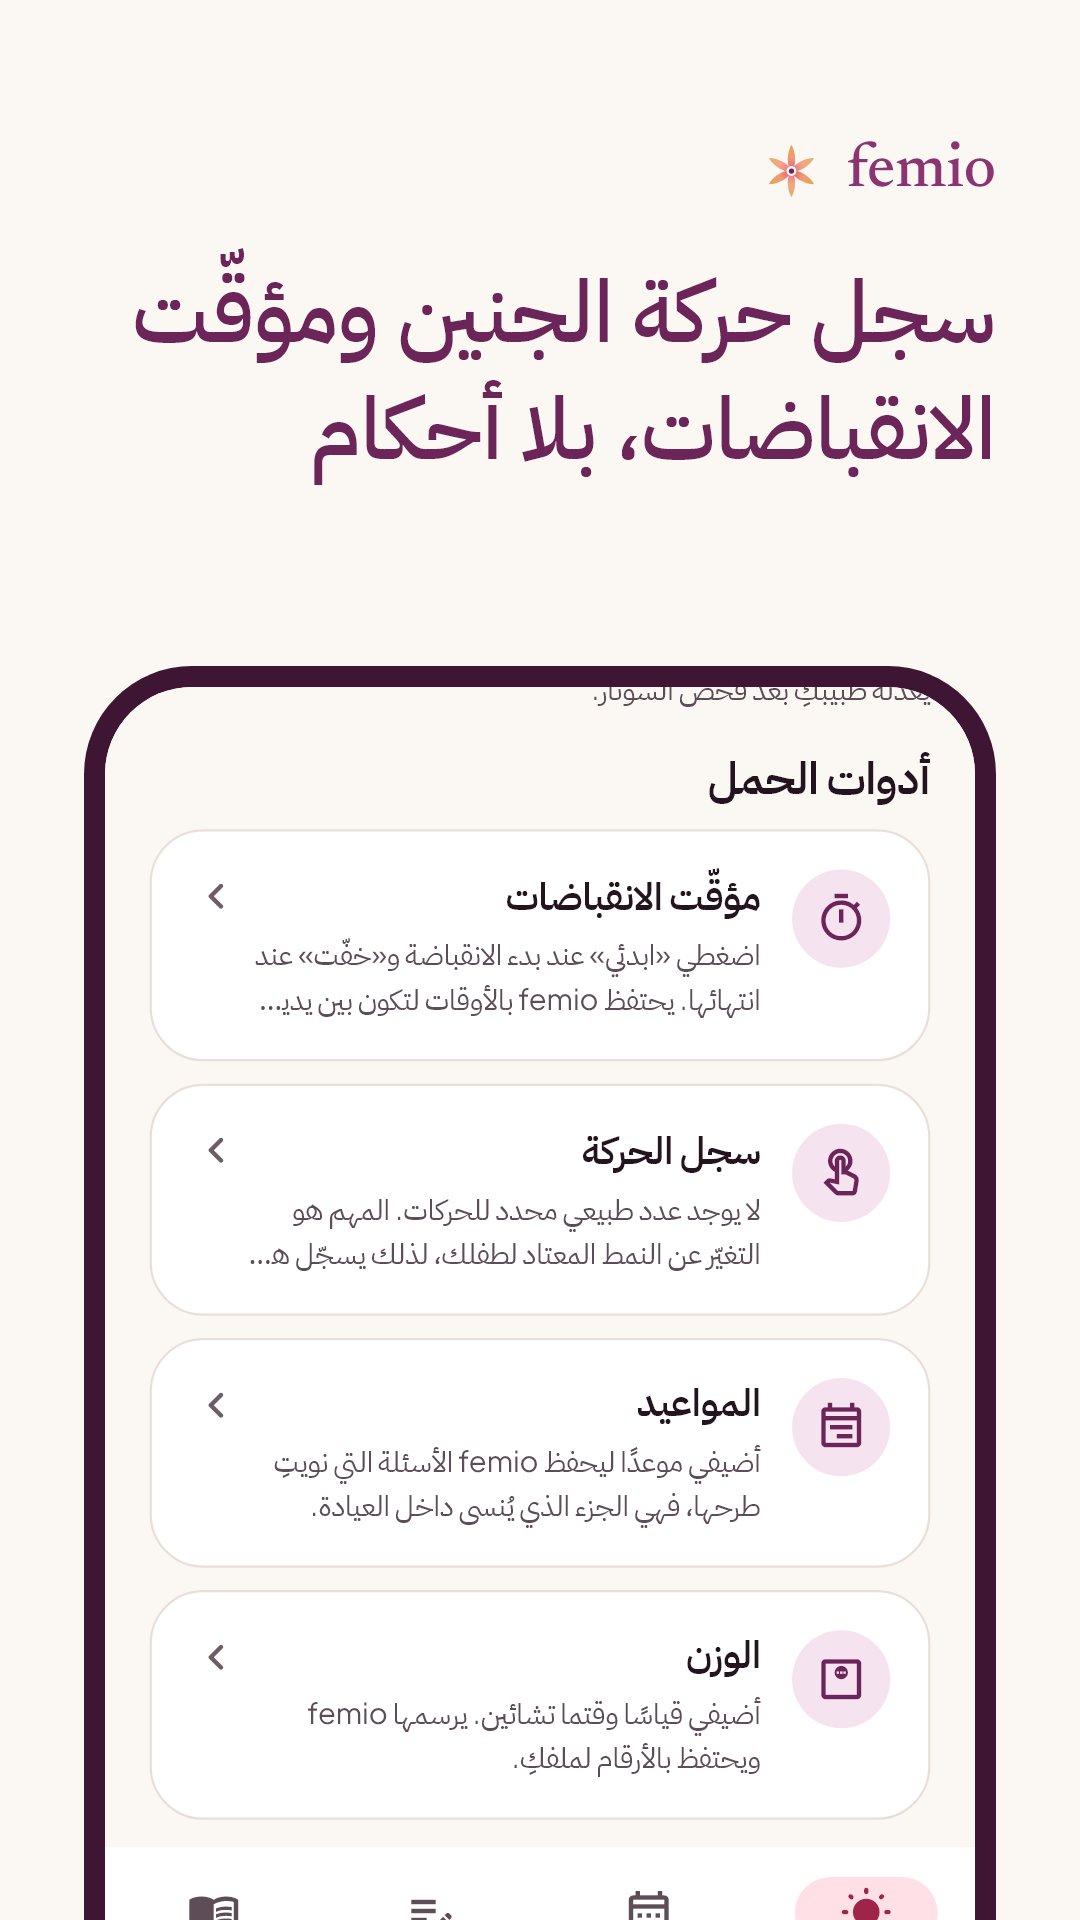
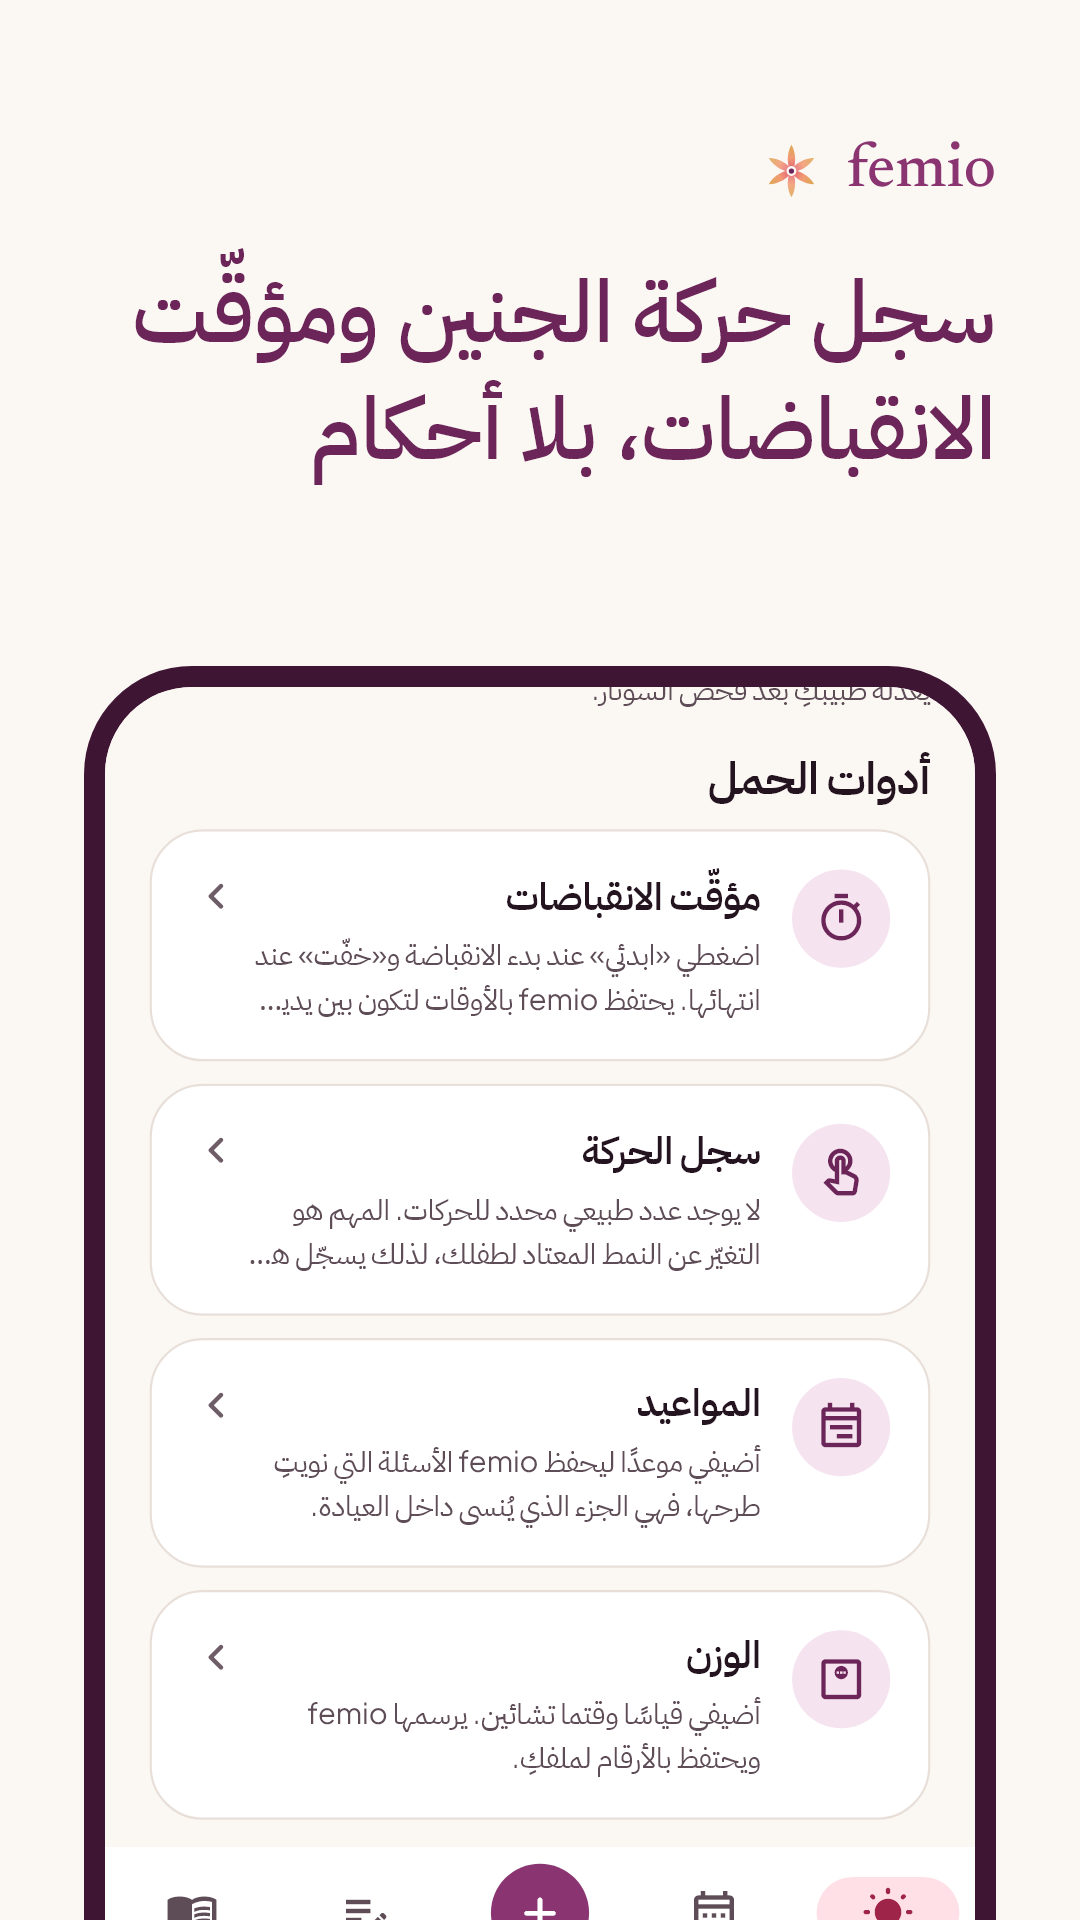
chore(store): R8.30 store screenshots with the new bar, flattened for Play
Re-rendered all 16 from store_screenshots_test.dart; flatten-graphics.py now
also writes the screenshots as RGB 1080x1920 (Play refuses alpha). The plain
test run still matches the flattened files.

diff --git a/scripts/store/flatten-graphics.py b/scripts/store/flatten-graphics.py
@@ -1,8 +1,9 @@
-"""Removes the alpha channel from the Play feature graphics (Play refuses alpha).
+"""Removes the alpha channel from the Play feature graphics and screenshots (Play refuses alpha).
 
 Why it exists: Flutter golden files are RGBA PNGs; Google Play wants a 24-bit PNG or JPEG
 for the feature graphic (docs/store/graphics-brief.md). Run after
-`flutter test --update-goldens test/store_feature_graphic_test.dart`.
+`flutter test --update-goldens test/store_feature_graphic_test.dart` or
+`test/store_screenshots_test.dart` (screenshots must be 1080x1920, R8.30).
 Usage: python scripts/store/flatten-graphics.py
 """
 import pathlib
@@ -10,16 +11,20 @@ import sys
 
 from PIL import Image
 
-GRAPHICS = pathlib.Path(__file__).resolve().parents[2] / "docs" / "store" / "graphics"
+STORE = pathlib.Path(__file__).resolve().parents[2] / "docs" / "store"
+GRAPHICS = STORE / "graphics"
+SCREENSHOTS = STORE / "screenshots"
 
 
 def main() -> int:
-    """Rewrites each feature-graphic PNG as RGB and checks its size; returns 1 on a bad size."""
+    """Rewrites each feature graphic and screenshot PNG as RGB and checks its size; returns 1 on a bad size."""
     bad = 0
-    for path in sorted(GRAPHICS.glob("feature-graphic-*.png")):
+    jobs = [(p, (1024, 500)) for p in sorted(GRAPHICS.glob("feature-graphic-*.png"))]
+    jobs += [(p, (1080, 1920)) for p in sorted(SCREENSHOTS.glob("*/*.png"))]
+    for path, size in jobs:
         img = Image.open(path).convert("RGB")
-        if img.size != (1024, 500):
-            print(f"{path.name}: {img.size}, expected (1024, 500)")
+        if img.size != size:
+            print(f"{path.name}: {img.size}, expected {size}")
             bad = 1
         img.save(path, optimize=True)
         print(f"{path.name}: RGB {img.size}")

diff --git a/docs/33_REBUILD_V3/PROGRESS.md b/docs/33_REBUILD_V3/PROGRESS.md
@@ -171,7 +171,7 @@ Accepted features from the persona-driven review (market researcher + business d
 - [x] R8.10c · The app calendar showed almost nothing for a new user (owner on his phone, 26 Nov 2026): the period length she gave was never used (a period drew as one day), this cycle's fertile window and ovulation vanished once past, and a stated cycle length drew only one future period and one window. Fixed with MR-57 in `day_marks.dart`, `fertility.dart` (`fertileWindowsFor`), `upcoming_periods.dart` and its web twin, fixture updated by hand (commit "fix(app): R8.10c …"; 26 Nov 2026)
 - [x] R8.29 · A centre "+" in the navigation bar (owner 26 Nov 2026): one sheet with Say it, Ask femio and visit questions on top (only when the assistant is on), one-tap flow and mood that save at once, and a row into the full Log for today. It replaces the floating Ask pill. Shots `testing-results/2026-11-26-r8-add-sheet/` (EN/AR, light/dark); behaviour in `test/r8_add_sheet_test.dart` (commit "feat(app): R8.29 …"; 26 Nov 2026)
 - [x] R8.10d · Today headlined a fertile window that had already ended (seen on the owner's data shape, 26 Nov 2026). It now shows the first window that has not ended (`currentOrNextFertileWindow`); the calendar keeps the past one (commit "feat(app): R8.29 …"; 26 Nov 2026)
-- [ ] R8.30 · Re-render the eight store screenshots with the new navigation bar ("+" in the middle) before the Play upload: single named tests in `store_screenshots_test.dart`, then flatten
+- [x] R8.30 · Re-render the eight store screenshots with the new navigation bar ("+" in the middle) before the Play upload: single named tests in `store_screenshots_test.dart`, then flatten. Done 2026-11-26: all 16 re-rendered (6 changed: Today, Hijri, Tools; the full-cycle calendar and the "+" bar show), `scripts/store/flatten-graphics.py` now also writes the screenshots as RGB 1080x1920; the plain test run still matches. Evidence: `docs/store/screenshots/{en,ar}/` (synthetic fixture).
 
 ## R9 · Competitor APK teardown (2026-11-24) — `research/APK_TEARDOWN_2026-11.md`
 
